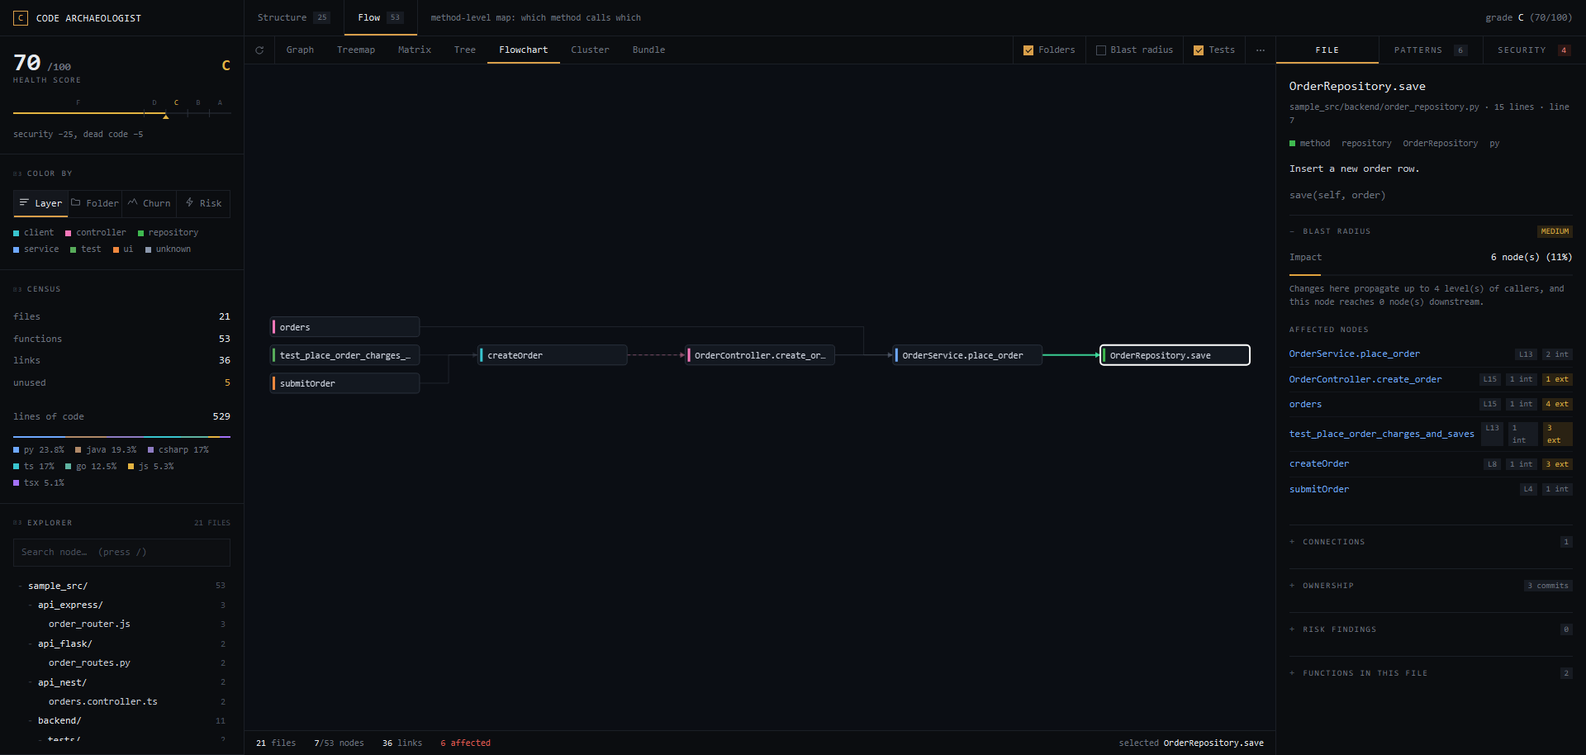
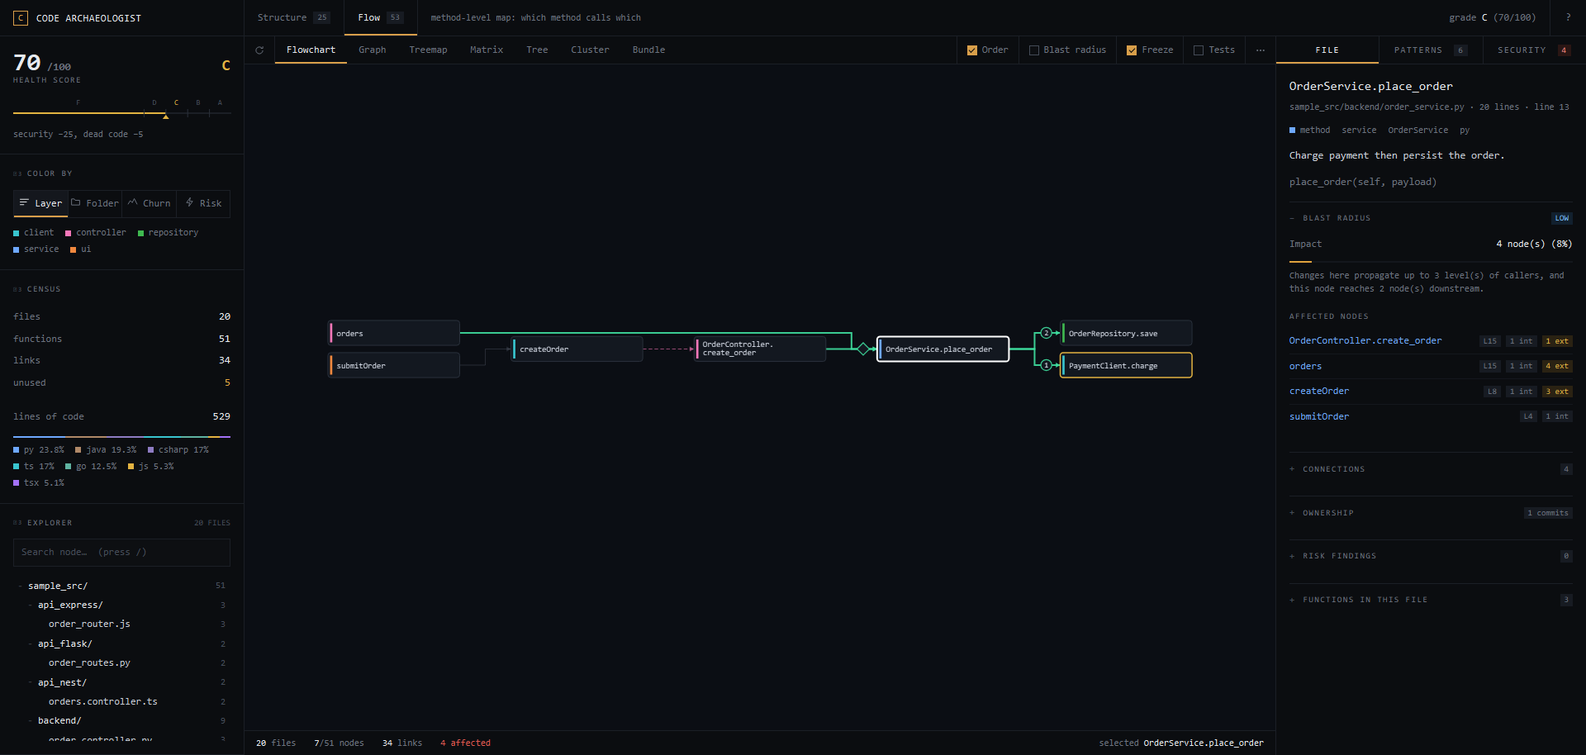
fix(explorer): call-order badges on every link in the Flowchart again
Since 0.3 badges were drawn only on the selected node's own calls, which read
as the feature being gone everywhere else in a flow. Every call link in view
carries its badge again. Where two or more visible callers point at one box,
their badges would share its arrowhead, so only one is drawn there: the
hovered caller's (new onNodeHover), else the selected node's, else none. On a
real repository 45% of badges inside a selected flow shared an arrowhead.

README screenshot replaced with the current Flowchart (place_order selected,
badges 1 and 2 visible). Docs: CLAUDE.md, README, SKILL.md, legend text,
ROADMAP #40 second update; prompt log [167]-[168].

diff --git a/.agents/skills/code-archaeologist/data/explorer.html b/.agents/skills/code-archaeologist/data/explorer.html
@@ -701,6 +701,8 @@ function reach(id, adj) {
 
 // ---------------------------------------------------------------- state
 let selected = null;        // node id
+let hovered = null;         // node id under the pointer: its call order wins a shared arrowhead
+let BADGE_CALLERS = new Map();   // callee id -> the visible callers whose link to it carries a badge
 let focus = null;           // node id the view is built around: the selection, unless Freeze holds it
 let fileFilter = null;      // file path or folder prefix
 let view = "flow";
@@ -931,6 +933,11 @@ const Graph = ForceGraph()(el("graph"))
     ctx.fillStyle = color;
     if (view === "flow") return ctx.fillRect(node.x - FC.w / 2, node.y - FC.h / 2, FC.w, FC.h);
     ctx.beginPath(); ctx.arc(node.x, node.y, 5, 0, 2 * Math.PI); ctx.fill();
+  })
+  // Pointing at a box lets its call order win every arrowhead it shares with another caller.
+  .onNodeHover((n) => {
+    const id = n ? n.id : null;
+    if (id !== hovered) { hovered = id; repaint(); }
   })
   .onNodeClick((n) => selectNode(n.id, true));   // empty canvas keeps the focus: only reset clears it
 
@@ -1207,6 +1214,17 @@ function computeVisible() {
   if (view === "flow" && focus)
     keep = new Set([focus, ...reach(focus, inAdj).set, ...reach(focus, outAdj).set]);
   visibleIds = keep;
+  // Every call link in view carries its badge, just behind its arrowhead. Links into one callee
+  // share that arrowhead, so where two or more visible callers would badge it, only one can:
+  // `drawCallBadge` asks this map how many there are.
+  BADGE_CALLERS = new Map();
+  EDGES.forEach((e) => {
+    const s = e.type === "calls" && CALL_SITES.get(siteKey(e.source, e.target));
+    if (!s || !(CALL_FANOUT.get(e.source) > 1 || s.loop || s.cond)) return;
+    if (keep && !(keep.has(e.source) && keep.has(e.target))) return;
+    if (!BADGE_CALLERS.has(e.target)) BADGE_CALLERS.set(e.target, new Set());
+    BADGE_CALLERS.get(e.target).add(e.source);
+  });
 }
 
 // Recompute what is shown, re-lay the flowchart around it, and zoom to it if asked.
@@ -1391,16 +1409,24 @@ function drawFlowLink(l, ctx, scale) {
 // One glyph, three facts about where a call is written, all shape and never a new colour:
 // a circle with the rank it is written in, a diamond when every site is inside a branch, a
 // ring when a site is inside a loop. The number only when the caller has two or more calls;
-// a lone unconditional call says nothing. Only on the **selected** node's own calls: a rank
-// belongs to its caller, and every link into a callee ends on the same arrowhead, so badges from
-// two callers would stack there and mean two different orders at once. The selection's links
-// are always highlighted, so the badge strokes in that colour.
+// a lone unconditional call says nothing. On every call link in view -- but a rank belongs to its
+// caller, and every link into a callee ends on the same arrowhead, so where two or more visible
+// callers badge one callee, only one badge is drawn there: the hovered caller's, else the
+// selected node's, else none. On a real repository's flows 45% of badges met another at an
+// arrowhead, which is why "every badge" alone piled them up again. Stroked in the link's colour
+// when highlighted, in a quiet grey otherwise.
 function drawCallBadge(l, ctx, scale, bx, by) {
   const site = l.type === "calls" && CALL_SITES.get(siteKey(l.source.id, l.target.id));
-  if (!site || l.source.id !== selected || scale < 0.35 || !el("showOrder").checked) return;
+  if (!site || scale < 0.35 || !el("showOrder").checked) return;
   const numbered = CALL_FANOUT.get(l.source.id) > 1;
   if (!numbered && !site.loop && !site.cond) return;
-  const stroke = Graph.linkColor()(l);
+  const callers = BADGE_CALLERS.get(l.target.id);
+  if (callers && callers.size > 1) {
+    const owner = callers.has(hovered) ? hovered : callers.has(selected) ? selected : null;
+    if (l.source.id !== owner) return;
+  }
+  const lit = highlightLinks.has(l);
+  const stroke = lit ? Graph.linkColor()(l) : "#39414f";
   ctx.font = "10px ui-monospace, monospace";
   // A label longer than two characters (3a1) stretches the shape sideways, leftwards, so its
   // right end stays clear of the arrowhead.
@@ -1421,7 +1447,7 @@ function drawCallBadge(l, ctx, scale, bx, by) {
   }
   if (numbered) {
     ctx.textAlign = "center"; ctx.textBaseline = "middle";
-    ctx.fillStyle = "#d7dde8";
+    ctx.fillStyle = lit ? "#d7dde8" : "#8b98ad";
     ctx.fillText(site.label, bx, by + 0.5);
     ctx.textAlign = "start"; ctx.textBaseline = "alphabetic";
   }
@@ -2040,13 +2066,13 @@ const VIEW_KEY = {
   Treemap: "Files as rectangles, sized by lines.",
   Matrix: "Who links to whom, as a grid; the 140 most connected nodes.",
   Tree: "The folder hierarchy.",
-  Flowchart: "Left to right, in columns by call depth. Selecting a node narrows it to that node's whole flow: every caller back to the start, every callee to the end. It also badges the selected node's own calls with the order they are written in (the Order toggle).",
+  Flowchart: "Left to right, in columns by call depth. Selecting a node narrows it to that node's whole flow: every caller back to the start, every callee to the end. A badge on each call link gives the order it is written in (the Order toggle); where several callers meet at one box, the badge shown is the hovered or selected node's.",
   Cluster: "Nodes gathered into one circle per folder.",
   Bundle: "Every node on one ring, ordered by folder.",
 };
 const TOGGLE_KEY = [
   ["Folders", "Draw folder areas behind the nodes. Graph and Cluster only."],
-  ["Order", "Draw the call-order badges on the selected node's calls. Flowchart only; the Calls list in the panel keeps them either way."],
+  ["Order", "Draw the call-order badges on the call links. Flowchart only; the Calls list in the panel keeps them either way."],
   ["Blast radius", "Highlight everything the selection reaches, in green."],
   ["Freeze", "Keep the current view when another node is clicked."],
   ["Tests", "Show test-code nodes. Hidden by default, and green when shown."],
@@ -2098,7 +2124,7 @@ function renderKey() {
   out.push(`<p class="note">${md(PRECISION_CAVEAT)}</p>`);
 
   if (CALL_SITES.size) {
-    out.push(`<h4>Call order - the badge before each of the selected node's calls in the Flowchart</h4>`);
+    out.push(`<h4>Call order - the badge before each call's arrowhead in the Flowchart</h4>`);
     out.push(keyRow(`<span>${callGlyph({ label: 2 }, true)}</span>`, "circle",
       "Written 2nd among this node's calls. Only when a node has two or more."));
     out.push(keyRow(`<span>${callGlyph({ label: 3, cond: true }, true)}</span>`, "diamond",

diff --git a/.agents/skills/code-archaeologist/templates/viewer.html b/.agents/skills/code-archaeologist/templates/viewer.html
@@ -670,6 +670,8 @@ function reach(id, adj) {
 
 // ---------------------------------------------------------------- state
 let selected = null;        // node id
+let hovered = null;         // node id under the pointer: its call order wins a shared arrowhead
+let BADGE_CALLERS = new Map();   // callee id -> the visible callers whose link to it carries a badge
 let focus = null;           // node id the view is built around: the selection, unless Freeze holds it
 let fileFilter = null;      // file path or folder prefix
 let view = "flow";
@@ -900,6 +902,11 @@ const Graph = ForceGraph()(el("graph"))
     ctx.fillStyle = color;
     if (view === "flow") return ctx.fillRect(node.x - FC.w / 2, node.y - FC.h / 2, FC.w, FC.h);
     ctx.beginPath(); ctx.arc(node.x, node.y, 5, 0, 2 * Math.PI); ctx.fill();
+  })
+  // Pointing at a box lets its call order win every arrowhead it shares with another caller.
+  .onNodeHover((n) => {
+    const id = n ? n.id : null;
+    if (id !== hovered) { hovered = id; repaint(); }
   })
   .onNodeClick((n) => selectNode(n.id, true));   // empty canvas keeps the focus: only reset clears it
 
@@ -1176,6 +1183,17 @@ function computeVisible() {
   if (view === "flow" && focus)
     keep = new Set([focus, ...reach(focus, inAdj).set, ...reach(focus, outAdj).set]);
   visibleIds = keep;
+  // Every call link in view carries its badge, just behind its arrowhead. Links into one callee
+  // share that arrowhead, so where two or more visible callers would badge it, only one can:
+  // `drawCallBadge` asks this map how many there are.
+  BADGE_CALLERS = new Map();
+  EDGES.forEach((e) => {
+    const s = e.type === "calls" && CALL_SITES.get(siteKey(e.source, e.target));
+    if (!s || !(CALL_FANOUT.get(e.source) > 1 || s.loop || s.cond)) return;
+    if (keep && !(keep.has(e.source) && keep.has(e.target))) return;
+    if (!BADGE_CALLERS.has(e.target)) BADGE_CALLERS.set(e.target, new Set());
+    BADGE_CALLERS.get(e.target).add(e.source);
+  });
 }
 
 // Recompute what is shown, re-lay the flowchart around it, and zoom to it if asked.
@@ -1360,16 +1378,24 @@ function drawFlowLink(l, ctx, scale) {
 // One glyph, three facts about where a call is written, all shape and never a new colour:
 // a circle with the rank it is written in, a diamond when every site is inside a branch, a
 // ring when a site is inside a loop. The number only when the caller has two or more calls;
-// a lone unconditional call says nothing. Only on the **selected** node's own calls: a rank
-// belongs to its caller, and every link into a callee ends on the same arrowhead, so badges from
-// two callers would stack there and mean two different orders at once. The selection's links
-// are always highlighted, so the badge strokes in that colour.
+// a lone unconditional call says nothing. On every call link in view -- but a rank belongs to its
+// caller, and every link into a callee ends on the same arrowhead, so where two or more visible
+// callers badge one callee, only one badge is drawn there: the hovered caller's, else the
+// selected node's, else none. On a real repository's flows 45% of badges met another at an
+// arrowhead, which is why "every badge" alone piled them up again. Stroked in the link's colour
+// when highlighted, in a quiet grey otherwise.
 function drawCallBadge(l, ctx, scale, bx, by) {
   const site = l.type === "calls" && CALL_SITES.get(siteKey(l.source.id, l.target.id));
-  if (!site || l.source.id !== selected || scale < 0.35 || !el("showOrder").checked) return;
+  if (!site || scale < 0.35 || !el("showOrder").checked) return;
   const numbered = CALL_FANOUT.get(l.source.id) > 1;
   if (!numbered && !site.loop && !site.cond) return;
-  const stroke = Graph.linkColor()(l);
+  const callers = BADGE_CALLERS.get(l.target.id);
+  if (callers && callers.size > 1) {
+    const owner = callers.has(hovered) ? hovered : callers.has(selected) ? selected : null;
+    if (l.source.id !== owner) return;
+  }
+  const lit = highlightLinks.has(l);
+  const stroke = lit ? Graph.linkColor()(l) : "#39414f";
   ctx.font = "10px ui-monospace, monospace";
   // A label longer than two characters (3a1) stretches the shape sideways, leftwards, so its
   // right end stays clear of the arrowhead.
@@ -1390,7 +1416,7 @@ function drawCallBadge(l, ctx, scale, bx, by) {
   }
   if (numbered) {
     ctx.textAlign = "center"; ctx.textBaseline = "middle";
-    ctx.fillStyle = "#d7dde8";
+    ctx.fillStyle = lit ? "#d7dde8" : "#8b98ad";
     ctx.fillText(site.label, bx, by + 0.5);
     ctx.textAlign = "start"; ctx.textBaseline = "alphabetic";
   }
@@ -2009,13 +2035,13 @@ const VIEW_KEY = {
   Treemap: "Files as rectangles, sized by lines.",
   Matrix: "Who links to whom, as a grid; the 140 most connected nodes.",
   Tree: "The folder hierarchy.",
-  Flowchart: "Left to right, in columns by call depth. Selecting a node narrows it to that node's whole flow: every caller back to the start, every callee to the end. It also badges the selected node's own calls with the order they are written in (the Order toggle).",
+  Flowchart: "Left to right, in columns by call depth. Selecting a node narrows it to that node's whole flow: every caller back to the start, every callee to the end. A badge on each call link gives the order it is written in (the Order toggle); where several callers meet at one box, the badge shown is the hovered or selected node's.",
   Cluster: "Nodes gathered into one circle per folder.",
   Bundle: "Every node on one ring, ordered by folder.",
 };
 const TOGGLE_KEY = [
   ["Folders", "Draw folder areas behind the nodes. Graph and Cluster only."],
-  ["Order", "Draw the call-order badges on the selected node's calls. Flowchart only; the Calls list in the panel keeps them either way."],
+  ["Order", "Draw the call-order badges on the call links. Flowchart only; the Calls list in the panel keeps them either way."],
   ["Blast radius", "Highlight everything the selection reaches, in green."],
   ["Freeze", "Keep the current view when another node is clicked."],
   ["Tests", "Show test-code nodes. Hidden by default, and green when shown."],
@@ -2067,7 +2093,7 @@ function renderKey() {
   out.push(`<p class="note">${md(PRECISION_CAVEAT)}</p>`);
 
   if (CALL_SITES.size) {
-    out.push(`<h4>Call order - the badge before each of the selected node's calls in the Flowchart</h4>`);
+    out.push(`<h4>Call order - the badge before each call's arrowhead in the Flowchart</h4>`);
     out.push(keyRow(`<span>${callGlyph({ label: 2 }, true)}</span>`, "circle",
       "Written 2nd among this node's calls. Only when a node has two or more."));
     out.push(keyRow(`<span>${callGlyph({ label: 3, cond: true }, true)}</span>`, "diamond",

diff --git a/docs/prompt.md b/docs/prompt.md
@@ -6789,3 +6789,91 @@ Python and the Java family, the architecture guide checked mechanically against 
 
 Committed this log entry with the pending docs/prompt.md entry [165] (already written, not yet
 committed), tagged `0.3` annotated with the release notes, pushed `main` and the tag.
+
+## [166] 2026-09-16 — "Ordering feature is gone": diagnosed, not changed
+
+**Prompt**
+> ordering feature is gone fix it
+
+(with a screenshot of a Flowchart region in a real repository: yellow `implements` links, no badges)
+
+**Response**
+No code changed. Found the explorer the screenshot came from,
+`D:/Project/srs-eol-system/.claude/skills/code-archaeologist/`, and checked it before touching
+anything: 2,890 of 2,896 call links carry `line`, 161 carry `arms`, and its `explorer.html`
+contains the badge and step code -- the pipeline and viewer are intact. The badges are absent
+because of the rule from [161]: they draw only on the *selected* node's own calls, and the
+screenshot shows no selection in view (no highlighted links, no white box).
+
+Restoring badges everywhere was measured first on that graph: 2,523 links would carry one, and
+74% of those end on an arrowhead shared with another caller (`GlobalResponse.success` has 110
+callers, `errorAlert` 37) -- the stacking [161] removed. Asked the user to choose: show a node's
+order on hover as well as on selection (recommended, never stacks), badge every visible link and
+accept stacking at shared callees, or badge every visible link but skip shared arrowheads. The
+user dismissed the question; waiting for their instruction.
+
+## [167] 2026-09-16 — Badges on every link again; shared arrowheads go to the hovered or selected caller
+
+**Prompt**
+> answer you question: same as before like in picture
+>
+> but now its gone why
+
+(with the "Current - elbow links (as shipped)" artboard from [165], badges on a fan-out)
+
+**Response**
+Why it was gone: the rule from [161] -- badges on the selected node's own calls only. Verified on
+the user's data, not assumed: loaded `MaintenanceMasterAASDataService.uploadProjectData` and its 11
+calls from `srs-eol-system`'s `flow_graph.json` into the sample explorer (the pane refuses files
+outside this project, and refused a temporary copy of the user's explorer placed in this repo's
+`data/`, which was restored with `git checkout` straight away), selected it, and all eleven drew:
+1..5, 6a/6b, 7, 8a/8b, 9. So the pipeline and viewer were fine; nothing in view was selected.
+
+"Same as before" means badges across the flow. Measured first: inside a selected flow on that
+repository 45% of badged links share an arrowhead with another visible caller, and 38 of the 40
+busiest flows have one -- plain "every link" would stack again. Implemented: every call link in view
+carries its badge; `BADGE_CALLERS` (built in `computeVisible`) counts the visible badging callers per
+callee, and where there are two or more, one badge is drawn -- the hovered caller's (new
+`onNodeHover`), else the selected node's, else none. Unhighlighted badges stroke `#39414f` with a
+`#8b98ad` label again.
+
+Tested on a real flow from that repository (`PasswordHistoryService.assertNotReused`, tests shown so
+callers share arrowheads), recording `drawCallBadge`'s fills per link: nothing selected -> only the
+unshared badge; hovering a test -> its three badges win their shared arrowheads; selecting
+`assertNotReused` -> its three. My first recording said nothing drew in every case: it ran before
+force-graph had turned link endpoints into node objects, so `l.source.id` was undefined -- a probe
+bug, re-run after the graph settled. Screenshot matches. Script parses as a classic script; explorer
+regenerated. Docs: CLAUDE.md, README, SKILL.md, the legend text, ROADMAP #40 second update. Not
+committed.
+
+## [168] 2026-09-16 — Pull, new README screenshot, commit and tag 0.3.1 with release notes
+
+**Prompt**
+> git pull then
+>
+> replace this pic with current pic in readme
+>
+> then commit and push with tag 0.3.1
+>
+> then generate release note for this 0.3.1
+
+(with a screenshot of the Flow map's Flowchart, `OrderService.place_order` selected, Freeze on)
+
+**Response**
+`git pull` refused: the remote's one new commit (`051a32f`, the README title centred as `<h1
+align="center">`) touched README.md, which had uncommitted [167] changes. Stashed, pulled
+(fast-forward), popped -- merged cleanly.
+
+The pasted image is not on disk (the newest file in Pictures/Screenshots was an older design
+artboard), so the screenshot was re-made from the current `data/explorer.html`: a scratch copy with
+a script appended (`applyMap("flow")`, `selectNode("OrderService.place_order")`, Freeze ticked,
+zoom-to-fit) rendered by headless Edge at 1920x914, the size of the image it replaces. The first
+render skipped zoom-to-fit and was cut off at the left; the second matches the user's screenshot.
+Replaced `docs/images/explorer-flowchart.png` and its alt text, which still described the old
+picture (a test and `OrderRepository.save`).
+
+Checks before committing: check_docs OK, check_regressions 82/82, check_graph 33/33 on both maps
+and 50/50 self-tests, check_langs all rows, check_py_oracle 0 disagreements. Committed with the
+uncommitted [167] work (badges on every link) and tagged `0.3.1` annotated, following 0.1-0.3: the
+release notes are the tag message; no CHANGELOG file exists. `package.json` still says 0.2.0 as it
+did at 0.3 -- left alone, mentioned to the user.

diff --git a/CLAUDE.md b/CLAUDE.md
@@ -606,9 +606,8 @@ rows, puts unlinked nodes in a grid underneath, and pins the result like Cluster
 accessors as every other view. A box is `FC` 180x34 on a 44px row and holds **two lines** of
 name: `fitLines` breaks after the last `.` that fits (`VersionControlService.` /
 `uploadFileToRepository`), else after `_` / `-`, else before a capital, and only the second line
-can end in `…` -- a one-line box used to throw the method name away. The **selected** node's
-call links each carry a **badge** just behind the arrowhead (`drawCallBadge`, 19px before the
-callee's box): its step in the order the caller's calls are written -- `1, 2, 3a, 3b, 4`: calls on different
+can end in `…` -- a one-line box used to throw the method name away. **Every call link in view**
+carries a **badge** just behind the arrowhead (`drawCallBadge`, 19px before the callee's box): its step in the order the caller's calls are written -- `1, 2, 3a, 3b, 4`: calls on different
 sides of one either/or branch share a step and take a letter per side, with a digit when a side
 holds several (`3a1`, `3a2`), letters going to the outermost branch with calls on two sides, and a
 label longer than two characters stretching the badge leftwards (`badgePath`, `loopRing`) -- a diamond when every site is
@@ -616,9 +615,13 @@ inside a branch, a ring when a site is inside a loop. That spot is the one piece
 sibling shares -- a caller's links leave from one pixel and bend on one vertical trunk per column,
 and the first placement, midway along that bend, put adjacent rows' badges 22px apart, exactly a
 ring's width: on a real 21-call fan-out 19 pairs touched or overlapped, and 0 do at the arrowhead
-(closest 44px, a full row). Only the selection's calls, because every link *into* a callee ends on
-that same arrowhead: two callers' badges would stack there, and mean two different orders at once
-(`build_flow.analyze` -> `_claim` has four callers). Ranks are `CALL_SITES` / `CALL_FANOUT`,
+(closest 44px, a full row). But every link *into* a callee ends on that same arrowhead, so where two
+or more visible callers badge one callee (`BADGE_CALLERS`, rebuilt in `computeVisible`), only one
+badge is drawn there: the **hovered** caller's (`onNodeHover`), else the **selected** node's, else
+none -- two would stack and mean two different orders at once. On a real repository 45% of the
+badges inside a selected flow met another at an arrowhead (38 of its 40 busiest flows had at least
+one). For one turn ([161]) badges were drawn on the selection's calls only; that read as the
+feature being gone everywhere else in the flow. Ranks are `CALL_SITES` / `CALL_FANOUT`,
 computed once per map in `loadMap`, so a selection that hides callees never renumbers the rest;
 the number is drawn only when a node has two or more calls. Rows are **not** reordered by rank --
 the barycentre sweep is what untangles the links. The panel's Calls list shows the same glyph
@@ -667,9 +670,9 @@ One meaning, one colour, everywhere — a reader learns the scheme once, from an
   on the canvas because they are most of the lines. Pink, yellow and orange also live on node dots
   (controller, model, ui), a different channel.
 - **A call badge is shape, never colour**, like a class kind: circle (written Nth), diamond (only
-  inside a branch), ring (inside a loop). On the canvas it strokes in the highlight colour -- it is
-  drawn only on the selected node's calls, which are always highlighted; in the panel and the
-  legend (`callGlyph`) it is `#39414f`, legible on the dark ground.
+  inside a branch), ring (inside a loop). On the canvas it strokes in the link's colour while the
+  link is highlighted, else `#39414f` with a `#8b98ad` label, quiet beside the faint call line; in
+  the panel and the legend (`callGlyph`) it is `#39414f`, legible on the dark ground.
 
 ### Layout rules
 

diff --git a/README.md b/README.md
@@ -23,7 +23,7 @@ is **named and skipped**, never silently dropped.
 The same question in the explorer: pick `OrderRepository.save` in the **Flowchart** view and it
 shows every path that reaches it, plus its blast radius (built from the bundled `sample_src/`):
 
-![Explorer Flowchart view: the call chain from submitOrder, orders and a test to OrderRepository.save, with its blast radius in the side panel](docs/images/explorer-flowchart.png)
+![Explorer Flowchart view: the flow through OrderService.place_order from submitOrder and orders, with call-order badges 1 and 2 on its calls and its blast radius in the side panel](docs/images/explorer-flowchart.png)
 
 ---
 
@@ -171,7 +171,7 @@ it or email it.
   actually has. Press `?` from anywhere, Escape to close.
 - **Left** — health ring (A–F), color-by (layer / folder / churn / risk), stat tiles, language
   mix, and a file tree that filters the canvas.
-- **Center** — seven views of the same graph: Flowchart (the one it opens on), Graph, Treemap, Matrix, Tree, Cluster, Bundle. Nodes are labelled by name (the path is in the side panel); clicking a file or folder hides every node it does not link to directly, and the Flowchart narrows to a selected node's chain. In the Flowchart a box wraps a long name onto two lines, and selecting a node puts a badge before each of its calls numbering them in the order they are written (not the order they run) -- `3a` / `3b` for the sides of one if / else, only one of which runs -- with a diamond for a call made only inside a branch and a ring for one inside a loop; the **Order** toggle hides them. Every link type has its own colour and dash.
+- **Center** — seven views of the same graph: Flowchart (the one it opens on), Graph, Treemap, Matrix, Tree, Cluster, Bundle. Nodes are labelled by name (the path is in the side panel); clicking a file or folder hides every node it does not link to directly, and the Flowchart narrows to a selected node's chain. In the Flowchart a box wraps a long name onto two lines, and a badge before each call's arrowhead numbers a node's calls in the order they are written (not the order they run) -- `3a` / `3b` for the sides of one if / else, only one of which runs -- with a diamond for a call made only inside a branch and a ring for one inside a loop (where several callers meet at one box, the badge shown is the hovered or selected node's); the **Order** toggle hides them. Every link type has its own colour and dash.
   Plus folder hulls, a blast-radius toggle, a **Freeze** toggle that holds the current view while
   you click through its nodes, and an overflow menu (`⋯`) holding zoom, fit and PNG export.
 - **Right** — **FILE** (what it does, blast radius, connections, git ownership, risks),

diff --git a/docs/ROADMAP_PLAN.md b/docs/ROADMAP_PLAN.md
@@ -2801,3 +2801,14 @@ callee with several callers (`_claim` has four) would stack badges there, each r
 different caller. So the canvas draws badges only on the **selected** node's own calls -- the
 question a rank answers is "in what order does *this* function call things" -- and the panel's
 Calls list carries the same order. Without a selection the Flowchart shows no badges.
+
+### Second update on #40 — 2026-09-16, badges back on every link
+
+Drawing badges on the selected node's calls only ([161]) read to the user as the feature being gone:
+in a selected flow, every other link carries no number. Measured on the same real repository before
+changing it: inside a selected flow, 45% of badged links share their arrowhead with another visible
+caller (38 of the 40 busiest flows have at least one), so badging every link would pile them up
+again. The canvas now badges **every** call link in view, and at an arrowhead two or more visible
+callers share it draws one: the hovered caller's, else the selected node's, else none. Pointing at
+any box brings its whole order up without re-narrowing the Flowchart. What stays open: at a shared
+arrowhead with nothing hovered or selected among its callers, no badge is drawn at all.

diff --git a/.agents/skills/code-archaeologist/SKILL.md b/.agents/skills/code-archaeologist/SKILL.md
@@ -288,10 +288,11 @@ them it does:
 - **Centre** — the seven views, folder hulls, and a **blast radius** toggle that shades everything
   reachable from the selected node. **Freeze** holds the current view: clicking another node
   still opens its details but no longer re-narrows the Flowchart or moves the canvas. In the
-  Flowchart, selecting a node puts a badge before each of its calls numbering them in the order
+  Flowchart, a badge before each call's arrowhead numbers a node's calls in the order
   they are **written** -- not the order they run; `3a` / `3b` are the sides of one if/else, only
   one of which runs -- with a diamond for a call made only inside a
-  branch and a ring for one inside a loop; **Order** hides them. The `⋯` overflow menu holds zoom in/out, fit and PNG export.
+  branch and a ring for one inside a loop; where several callers meet at one box, the badge shown
+  is the hovered or selected node's; **Order** hides them. The `⋯` overflow menu holds zoom in/out, fit and PNG export.
 - **Right** — the three tabs click through into each other (a risk opens its file, a pattern opens
   its node).
 
